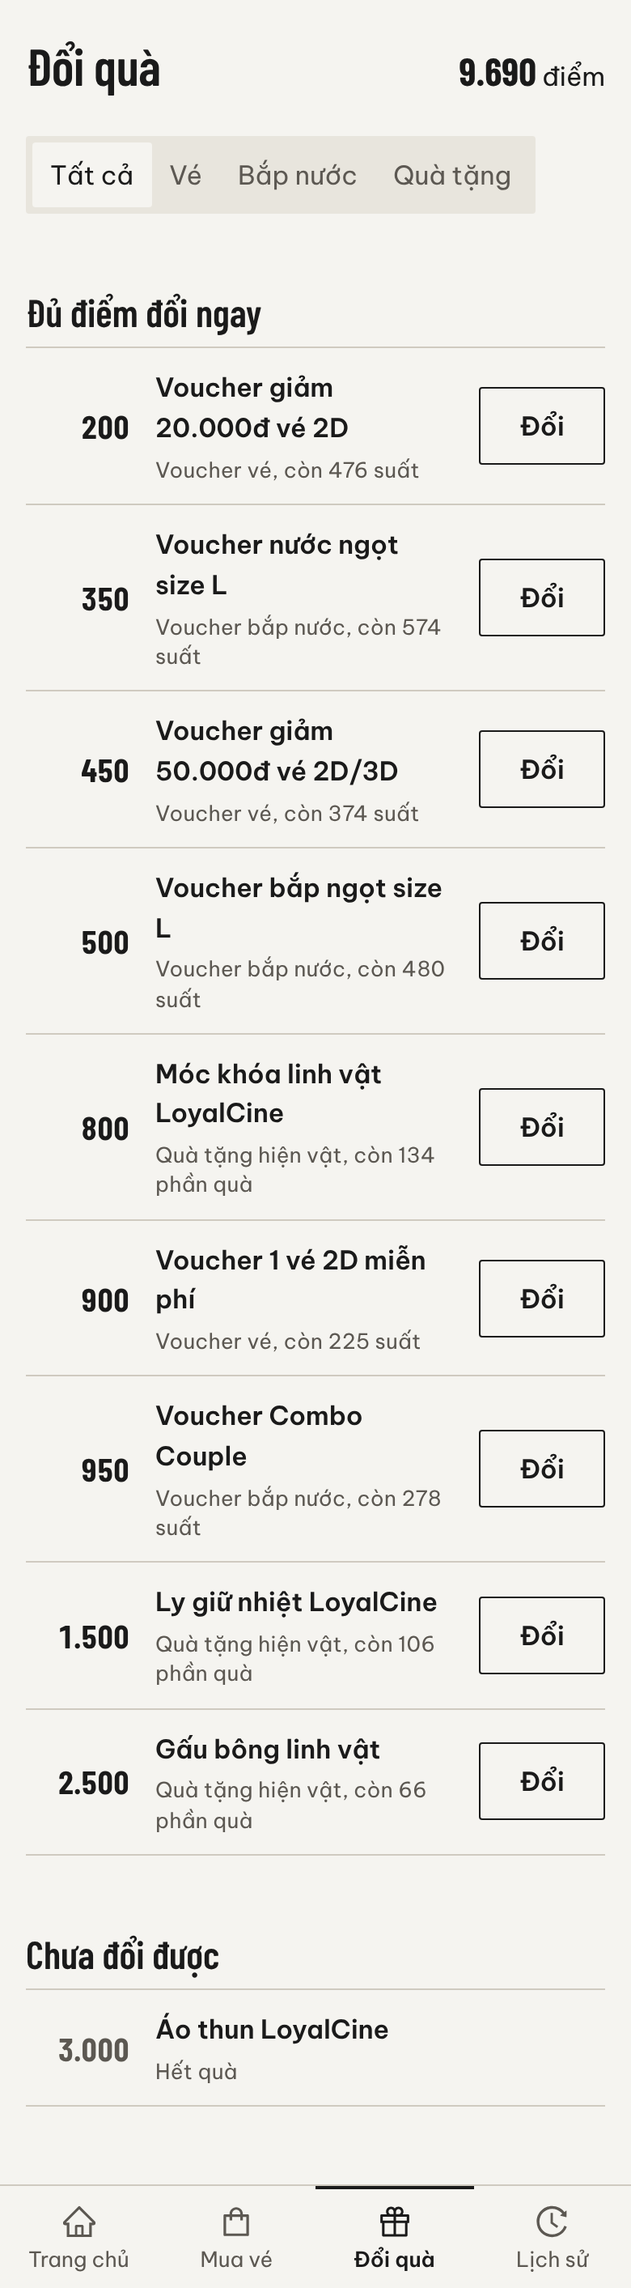
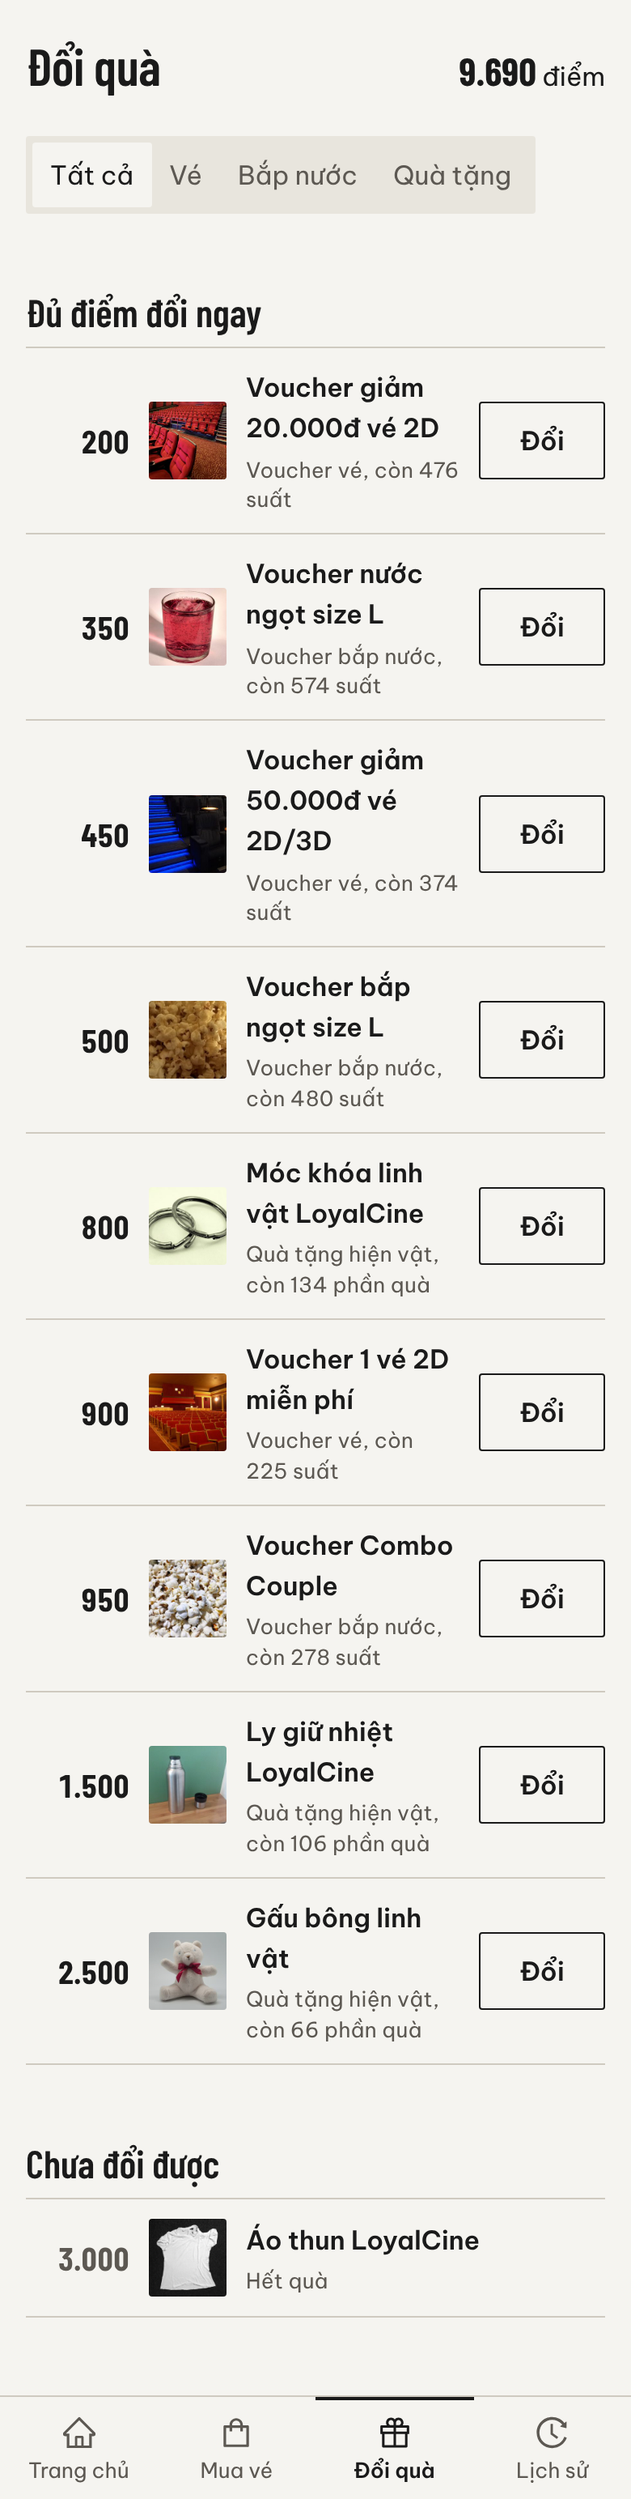
Thêm ảnh minh họa: poster phim, ảnh combo, ảnh quà, ảnh phòng chiếu
- 16 ảnh tạm lấy từ Wikimedia Commons (phạm vi công cộng, CC0, CC BY,
  CC BY-SA), đã cắt và nén (tổng khoảng 400 KB), không có người hay logo
  thương hiệu. Nằm ở frontend/src/assets/anh, khai báo ở src/data/anh.js.
- Mua vé: poster ảnh 2:3 thay poster chữ (phim chưa có ảnh vẫn dùng poster
  chữ); combo bắp nước có ảnh vuông 64px.
- Đổi quà: ảnh vuông 48px giữa số điểm và tên quà, quà chưa có ảnh để ô
  trống cùng cỡ.
- Trang đầu: ảnh phòng chiếu 3:2 và đường dẫn tới trang nguồn ảnh.
- Trang /nguon-anh và docs/07-nguon-anh.md ghi tác giả, giấy phép, nguồn
  từng ảnh theo yêu cầu của giấy phép.
- docs/06 phần 5 cập nhật quy định về ảnh; thay 4 ảnh chụp màn hình trong
  docs/hinh cho khớp giao diện mới.

Kiểm tra: lint sạch, 24 unit test đạt, build được; kịch bản demo với dữ
liệu giả đạt 24/24 (1440px) và 23/23 (390px), với backend thật đạt 23/23;
không ảnh nào bị lỗi tải.

diff --git a/frontend/src/data/anh.js b/frontend/src/data/anh.js
@@ -1,0 +1,65 @@
+// Ảnh minh họa TẠM THỜI, lấy từ Wikimedia Commons theo giấy phép tự do hoặc chỉ cần ghi nguồn.
+// Ảnh đã được cắt và thu nhỏ. Không chọn ảnh có người hay logo thương hiệu.
+// Nguồn, tác giả, giấy phép ghi ở NGUON_ANH bên dưới, hiện ở trang /nguon-anh và docs/07-nguon-anh.md.
+// Khi nhóm có ảnh thật: thay tệp trong src/assets/anh và sửa NGUON_ANH cho khớp.
+import aoThun from '../assets/anh/ao-thun.jpg'
+import bap1 from '../assets/anh/bap-1.jpg'
+import bap2 from '../assets/anh/bap-2.jpg'
+import bap3 from '../assets/anh/bap-3.jpg'
+import gauBong from '../assets/anh/gau-bong.jpg'
+import lyGiuNhiet from '../assets/anh/ly-giu-nhiet.jpg'
+import mocKhoa from '../assets/anh/moc-khoa.jpg'
+import nuocNgot from '../assets/anh/nuoc-ngot.jpg'
+import phimDemTrang from '../assets/anh/phim-dem-trang.jpg'
+import phimHanhTinh from '../assets/anh/phim-hanh-tinh.jpg'
+import phimHoiAn from '../assets/anh/phim-hoi-an.jpg'
+import phimMeoMun from '../assets/anh/phim-meo-mun.jpg'
+import rap1 from '../assets/anh/rap-1.jpg'
+import rap2 from '../assets/anh/rap-2.jpg'
+import rap3 from '../assets/anh/rap-3.jpg'
+import rap3Rong from '../assets/anh/rap-3-rong.jpg'
+
+/** Poster theo MaPhim (tỉ lệ 2:3). Phim không có ở đây thì dùng poster dạng chữ. */
+export const POSTER_PHIM = { P01: phimHanhTinh, P02: phimHoiAn, P03: phimMeoMun, P04: phimDemTrang }
+
+/** Ảnh vuông theo MaSanPham của combo bắp nước. */
+export const ANH_COMBO = { 'CB-SOLO': bap1, 'CB-COUPLE': bap2, 'CB-FAMILY': bap3 }
+
+/** Ảnh vuông theo MaPhanThuong. Quà mới thêm mà chưa có ảnh thì để ô trống. */
+export const ANH_QUA = {
+  PT001: rap1,
+  PT002: rap2,
+  PT003: rap3,
+  PT004: nuocNgot,
+  PT005: bap1,
+  PT006: bap2,
+  PT007: mocKhoa,
+  PT008: lyGiuNhiet,
+  PT009: gauBong,
+  PT010: aoThun,
+}
+
+/** Ảnh phòng chiếu ở trang đầu (tỉ lệ 3:2). */
+export const ANH_PHONG_CHIEU = rap3Rong
+
+const CC = (ma, ban) => `https://creativecommons.org/${ma === 'CC0' ? 'publicdomain/zero/1.0' : `licenses/${ma}/${ban}`}/`
+const COMMONS = (ten) => `https://commons.wikimedia.org/wiki/File:${encodeURIComponent(ten.replaceAll(' ', '_'))}`
+
+/** Nguồn từng ảnh: dùng ở đâu, tên tệp trên Commons, tác giả, giấy phép. */
+export const NGUON_ANH = [
+  { anh: phimHanhTinh, dungCho: 'Poster phim "Hành Tinh Cuối Cùng"', tenTep: 'Earthrise over Compton crater -LRO full res.jpg', tacGia: 'NASA / Goddard Space Flight Center / Arizona State University', giayPhep: 'Phạm vi công cộng', urlGiayPhep: null },
+  { anh: phimHoiAn, dungCho: 'Poster phim "Mùa Hè Ở Hội An"', tenTep: 'Lanterns in Hoi An (40480642302).jpg', tacGia: 'Mig Gilbert from Brighton', giayPhep: 'CC BY-SA 2.0', urlGiayPhep: CC('by-sa', '2.0') },
+  { anh: phimMeoMun, dungCho: 'Poster phim "Thám Tử Mèo Mun"', tenTep: 'Yellow-eyed Black Cat.jpg', tacGia: 'Mcheer372', giayPhep: 'CC BY-SA 4.0', urlGiayPhep: CC('by-sa', '4.0') },
+  { anh: phimDemTrang, dungCho: 'Poster phim "Đêm Trăng Sài Gòn"', tenTep: 'Ho Chi Minh skyline.jpg', tacGia: 'Azor84', giayPhep: 'CC0', urlGiayPhep: CC('CC0') },
+  { anh: bap1, dungCho: 'Combo Solo, voucher bắp ngọt size L', tenTep: 'Popcorn 9.jpg', tacGia: 'ViajeroExtraviado', giayPhep: 'CC0', urlGiayPhep: CC('CC0') },
+  { anh: bap2, dungCho: 'Combo Couple, voucher Combo Couple', tenTep: 'Popcorn 1.jpg', tacGia: 'Gaurav Dhwaj Khadka', giayPhep: 'CC BY-SA 4.0', urlGiayPhep: CC('by-sa', '4.0') },
+  { anh: bap3, dungCho: 'Combo Family', tenTep: 'Popcorn Confection.jpg', tacGia: 'Capvideo', giayPhep: 'CC BY 4.0', urlGiayPhep: CC('by', '4.0') },
+  { anh: rap1, dungCho: 'Voucher giảm 20.000đ vé 2D', tenTep: 'Interior of movie theater, AMC Century City, Sept. 2024.jpg', tacGia: 'Alexis Doine', giayPhep: 'CC0', urlGiayPhep: CC('CC0') },
+  { anh: rap2, dungCho: 'Voucher giảm 50.000đ vé 2D/3D', tenTep: 'Auditorium at Gilda on an afternoon in January 2025.jpg', tacGia: 'JIP', giayPhep: 'CC BY-SA 4.0', urlGiayPhep: CC('by-sa', '4.0') },
+  { anh: rap3, dungCho: 'Voucher 1 vé 2D miễn phí, ảnh phòng chiếu ở trang đầu', tenTep: 'Columbia City Cinema main hall.jpg', tacGia: 'Joe Mabel', giayPhep: 'CC BY-SA 3.0', urlGiayPhep: CC('by-sa', '3.0') },
+  { anh: nuocNgot, dungCho: 'Voucher nước ngọt size L', tenTep: 'Raspberryade.jpg', tacGia: 'Ubcule', giayPhep: 'CC BY-SA 3.0', urlGiayPhep: CC('by-sa', '3.0') },
+  { anh: mocKhoa, dungCho: 'Móc khóa linh vật LoyalCine', tenTep: 'Keyrings (ubt).JPG', tacGia: 'Tomasz Sienicki', giayPhep: 'CC BY 3.0', urlGiayPhep: CC('by', '3.0') },
+  { anh: lyGiuNhiet, dungCho: 'Ly giữ nhiệt LoyalCine', tenTep: 'Thermos flask with hot water.jpg', tacGia: 'Robert Orzanna', giayPhep: 'CC BY-SA 4.0', urlGiayPhep: CC('by-sa', '4.0') },
+  { anh: gauBong, dungCho: 'Gấu bông linh vật', tenTep: 'Handmade teddy bear.jpg', tacGia: 'Clément Bucco-Lechat', giayPhep: 'CC BY-SA 3.0', urlGiayPhep: CC('by-sa', '3.0') },
+  { anh: aoThun, dungCho: 'Áo thun LoyalCine', tenTep: 'Worn T-shirt white.png', tacGia: 'Taylor_49', giayPhep: 'CC BY-SA 4.0', urlGiayPhep: CC('by-sa', '4.0') },
+].map((a) => ({ ...a, trang: COMMONS(a.tenTep) }))

diff --git a/frontend/src/index.css b/frontend/src/index.css
@@ -636,6 +636,24 @@ a.ten-thuong-hieu {
   line-height: 1;
   overflow-wrap: anywhere;
 }
+/* Poster ảnh (quy chuẩn giao diện, phần 5): tỉ lệ 2:3, bo 2px, nền phụ trong lúc ảnh đang tải */
+.poster {
+  display: block;
+  width: 88px;
+  height: 132px;
+  object-fit: cover;
+  border-radius: var(--bo-nut);
+  background: var(--nen-phu);
+}
+/* Ảnh vuông cho combo và quà; ô trống cùng cỡ khi chưa có ảnh */
+.anh-vuong {
+  display: block;
+  width: var(--co-anh, 48px);
+  height: var(--co-anh, 48px);
+  object-fit: cover;
+  border-radius: var(--bo-nut);
+  background: var(--nen-phu);
+}
 .phim__than {
   display: flex;
   flex-direction: column;
@@ -782,7 +800,7 @@ a.ten-thuong-hieu {
    ========================================================================== */
 .qua {
   display: grid;
-  grid-template-columns: 64px minmax(0, 1fr) auto;
+  grid-template-columns: 64px 48px minmax(0, 1fr) auto;
   gap: 16px;
   align-items: center;
   min-height: 64px;
@@ -808,6 +826,15 @@ a.ten-thuong-hieu {
 }
 .qua--thieu .qua__diem {
   color: var(--chu-phu);
+}
+.qua--combo {
+  grid-template-columns: 64px minmax(0, 1fr) auto;
+  --co-anh: 64px;
+}
+@media (max-width: 767px) {
+  .qua {
+    gap: 12px;
+  }
 }
 
 /* Voucher đã đổi: thân vé, đường răng cưa, cuống có mã */
@@ -867,6 +894,51 @@ a.ten-thuong-hieu {
   font-weight: 600;
   font-size: var(--h2);
   line-height: 1.1;
+}
+.trang-dau__anh {
+  display: block;
+  width: 100%;
+  height: auto;
+  aspect-ratio: 3 / 2;
+  object-fit: cover;
+  border-radius: var(--bo-nut);
+  background: var(--nen-phu);
+  margin-bottom: 16px;
+}
+.trang-dau__nguon {
+  margin-top: 16px;
+  color: var(--chu-phu);
+}
+
+/* Trang nguồn ảnh */
+.trang-nguon {
+  display: flex;
+  flex-direction: column;
+  gap: 32px;
+  padding: 48px 32px 96px;
+}
+.trang-nguon p {
+  max-width: 65ch;
+}
+.dong-nguon {
+  display: grid;
+  grid-template-columns: 48px minmax(0, 1fr);
+  gap: 16px;
+  align-items: center;
+  padding: 12px 0;
+  border-bottom: 1px solid var(--vien);
+}
+.ds-hang > .dong-nguon:first-child {
+  border-top: 1px solid var(--vien);
+}
+.dong-nguon small {
+  color: var(--chu-phu);
+  overflow-wrap: anywhere;
+}
+@media (max-width: 767px) {
+  .trang-nguon {
+    padding: 32px 16px 64px;
+  }
 }
 @media (max-width: 760px) {
   .trang-dau {

diff --git a/frontend/src/pages/customer/MuaVe.jsx b/frontend/src/pages/customer/MuaVe.jsx
@@ -6,6 +6,8 @@ import { useNavigate, useSearchParams } from 'react-router-dom'
 import { taoGiaoDich } from '../../api/giaoDich.js'
 import { SO_TIEN_MOI_DIEM } from '../../config.js'
 import { useKhachHang } from '../../context/khachHangContext.js'
+import { AnhVuong } from '../../components/AnhVuong.jsx'
+import { ANH_COMBO, POSTER_PHIM } from '../../data/anh.js'
 import { COMBO, PHIM, taoDongCombo, taoDongVe } from '../../data/catalog.js'
 import { formatDiem, formatVND } from '../../utils/format.js'
 
@@ -47,9 +49,13 @@ function HangPhim({ phim, ngay, gioHang, datDong }) {
 
   return (
     <article className="phim" data-testid={`movie-${phim.MaPhim}`}>
-      <div className="poster-chu" aria-hidden>
-        {phim.TenPhim}
-      </div>
+      {POSTER_PHIM[phim.MaPhim] ? (
+        <img className="poster" src={POSTER_PHIM[phim.MaPhim]} alt="" width="88" height="132" loading="lazy" decoding="async" />
+      ) : (
+        <div className="poster-chu" aria-hidden>
+          {phim.TenPhim}
+        </div>
+      )}
       <div className="phim__than">
         <h2 className="co-h3">{phim.TenPhim}</h2>
         <small>
@@ -173,7 +179,8 @@ export default function MuaVe() {
         ) : (
           <ul className="ds-hang">
             {COMBO.map((c) => (
-              <li key={c.MaSanPham} className="qua" data-testid={`combo-${c.MaSanPham}`} style={{ gridTemplateColumns: '1fr auto' }}>
+              <li key={c.MaSanPham} className="qua qua--combo" data-testid={`combo-${c.MaSanPham}`}>
+                <AnhVuong src={ANH_COMBO[c.MaSanPham]} />
                 <div className="cap">
                   <h2 className="co-h3">{c.TenSanPham}</h2>
                   <small>{c.MoTa}</small>

diff --git a/frontend/src/pages/NguonAnh.jsx b/frontend/src/pages/NguonAnh.jsx
@@ -1,0 +1,32 @@
+import { Link } from 'react-router-dom'
+import { NGUON_ANH } from '../data/anh.js'
+
+/** Nguồn, tác giả và giấy phép của các ảnh minh họa (ghi nguồn theo yêu cầu của giấy phép CC BY, CC BY-SA). */
+export default function NguonAnh() {
+  return (
+    <main className="trang-nguon">
+      <div className="cap">
+        <Link to="/">Về trang đầu</Link>
+        <h1>Nguồn ảnh minh họa</h1>
+        <p>
+          Ảnh trong app là ảnh minh họa tạm thời, lấy từ Wikimedia Commons và dùng theo giấy phép ghi ở từng dòng. Ảnh đã được
+          cắt và thu nhỏ. Khi nhóm có poster phim hoặc ảnh rạp thật được phép dùng, các ảnh này sẽ được thay.
+        </p>
+      </div>
+      <ul className="ds-hang">
+        {NGUON_ANH.map((a) => (
+          <li key={a.tenTep} className="dong-nguon">
+            <img className="anh-vuong" src={a.anh} alt="" loading="lazy" decoding="async" />
+            <span className="cap">
+              <b>{a.dungCho}</b>
+              <small>
+                Ảnh <a href={a.trang}>{a.tenTep}</a>, tác giả {a.tacGia}, giấy phép{' '}
+                {a.urlGiayPhep ? <a href={a.urlGiayPhep}>{a.giayPhep}</a> : a.giayPhep}
+              </small>
+            </span>
+          </li>
+        ))}
+      </ul>
+    </main>
+  )
+}

diff --git a/frontend/src/pages/Landing.jsx b/frontend/src/pages/Landing.jsx
@@ -2,17 +2,29 @@ import { RightOutlined } from '@ant-design/icons'
 import { Link } from 'react-router-dom'
 import { MockControls } from '../components/MockControls.jsx'
 import { APP_NAME } from '../config.js'
+import { ANH_PHONG_CHIEU } from '../data/anh.js'
 
-/** Trang đầu: tên LoyalCine bên trái, hai lựa chọn bên phải. */
+/** Trang đầu: ảnh phòng chiếu và tên LoyalCine bên trái, hai lựa chọn bên phải. */
 export default function Landing() {
   return (
     <main className="trang-dau">
       <div className="cap">
+        <img
+          className="trang-dau__anh"
+          src={ANH_PHONG_CHIEU}
+          alt="Phòng chiếu với các hàng ghế đỏ"
+          width="1200"
+          height="800"
+          decoding="async"
+        />
         <h1>{APP_NAME}</h1>
         <p>App thành viên rạp phim, đồ án môn NoSQL (MongoDB, Node.js/Express, React).</p>
         <div style={{ marginTop: 24 }}>
           <MockControls />
         </div>
+        <small className="trang-dau__nguon">
+          Ảnh minh họa lấy từ Wikimedia Commons. <Link to="/nguon-anh">Xem nguồn và giấy phép ảnh</Link>
+        </small>
       </div>
       <nav className="trang-dau__lua-chon" aria-label="Chọn ứng dụng">
         <Link to="/app" className="hang-viec">

diff --git a/frontend/src/pages/customer/DoiThuong.jsx b/frontend/src/pages/customer/DoiThuong.jsx
@@ -5,8 +5,10 @@ import { useNavigate } from 'react-router-dom'
 import { doiQua } from '../../api/doiThuong.js'
 import { layDsPhanThuong } from '../../api/phanThuong.js'
 import { ErrorState } from '../../components/ErrorState.jsx'
+import { AnhVuong } from '../../components/AnhVuong.jsx'
 import { VeVoucher } from '../../components/VeVoucher.jsx'
 import { useKhachHang } from '../../context/khachHangContext.js'
+import { ANH_QUA } from '../../data/anh.js'
 import { useApi } from '../../hooks/useApi.js'
 import { formatDiem } from '../../utils/format.js'
 import { NHAN_LOAI_PHAN_THUONG } from '../../utils/nhan.js'
@@ -28,6 +30,7 @@ function HangQua({ qua, diemHienTai, onDoi }) {
   return (
     <li className={`qua${doiDuoc ? '' : ' qua--thieu'}`} data-testid={`reward-${qua.MaPhanThuong}`}>
       <span className="qua__diem">{formatDiem(qua.DiemCanDoi)}</span>
+      <AnhVuong src={ANH_QUA[qua.MaPhanThuong]} />
       <span className="qua__chu">
         <b>{qua.TenPhanThuong}</b>
         <small>

diff --git a/frontend/src/App.jsx b/frontend/src/App.jsx
@@ -21,6 +21,7 @@ const LichSu = lazy(() => import('./pages/customer/LichSu.jsx'))
 const MuaVe = lazy(() => import('./pages/customer/MuaVe.jsx'))
 const ThanhToanMoMo = lazy(() => import('./pages/customer/ThanhToanMoMo.jsx'))
 const TrangChu = lazy(() => import('./pages/customer/TrangChu.jsx'))
+const NguonAnh = lazy(() => import('./pages/NguonAnh.jsx'))
 
 const DangTai = (
   <div style={{ minHeight: 240, display: 'grid', placeItems: 'center' }}>
@@ -37,6 +38,7 @@ export default function App() {
           <Suspense fallback={DangTai}>
             <Routes>
             <Route path="/" element={<Landing />} />
+            <Route path="/nguon-anh" element={<NguonAnh />} />
 
             {/* Customer App (giao diện điện thoại) */}
             <Route

diff --git a/frontend/src/components/AnhVuong.jsx b/frontend/src/components/AnhVuong.jsx
@@ -1,0 +1,9 @@
+/**
+ * Ảnh vuông nhỏ cho combo bắp nước và quà đổi điểm.
+ * Chưa có ảnh thì để một ô trống cùng cỡ, để các hàng vẫn thẳng cột.
+ * Ảnh chỉ minh họa (tên món đã ghi ngay bên cạnh) nên alt để trống.
+ */
+export function AnhVuong({ src }) {
+  if (!src) return <span className="anh-vuong" aria-hidden />
+  return <img className="anh-vuong" src={src} alt="" loading="lazy" decoding="async" />
+}

diff --git a/docs/07-nguon-anh.md b/docs/07-nguon-anh.md
@@ -1,0 +1,27 @@
+# Nguồn ảnh minh họa
+
+Ảnh trong app là ảnh minh họa **tạm thời**, lấy từ Wikimedia Commons. Mỗi ảnh dùng theo giấy phép ghi trong bảng:
+- Phạm vi công cộng và CC0: dùng tự do.
+- CC BY và CC BY-SA: phải ghi tác giả, giấy phép và nguồn. App ghi ở trang `/nguon-anh`, có đường dẫn từ trang đầu. Ảnh cắt từ ảnh CC BY-SA vẫn theo giấy phép CC BY-SA của ảnh gốc.
+
+Ảnh đã được cắt và thu nhỏ. Khi chọn, nhóm bỏ qua ảnh có người và ảnh có logo thương hiệu.
+
+Tệp ảnh nằm ở `frontend/src/assets/anh/`; danh sách dùng trong code ở `frontend/src/data/anh.js` (`POSTER_PHIM`, `ANH_COMBO`, `ANH_QUA`, `NGUON_ANH`). Khi nhóm có poster phim hoặc ảnh rạp thật được phép dùng: thay tệp cùng tên, rồi sửa dòng tương ứng trong `NGUON_ANH` và bảng dưới đây. Phim hay quà chưa có ảnh thì app tự dùng poster dạng chữ hoặc ô trống.
+
+| Tệp trong app | Dùng cho | Ảnh gốc trên Wikimedia Commons | Tác giả | Giấy phép |
+|---|---|---|---|---|
+| `phim-hanh-tinh.jpg` | Poster phim "Hành Tinh Cuối Cùng" | [Earthrise over Compton crater -LRO full res.jpg](https://commons.wikimedia.org/wiki/File:Earthrise_over_Compton_crater_-LRO_full_res.jpg) | NASA / Goddard Space Flight Center / Arizona State University | Phạm vi công cộng |
+| `phim-hoi-an.jpg` | Poster phim "Mùa Hè Ở Hội An" | [Lanterns in Hoi An (40480642302).jpg](https://commons.wikimedia.org/wiki/File:Lanterns_in_Hoi_An_(40480642302).jpg) | Mig Gilbert from Brighton | [CC BY-SA 2.0](https://creativecommons.org/licenses/by-sa/2.0/) |
+| `phim-meo-mun.jpg` | Poster phim "Thám Tử Mèo Mun" | [Yellow-eyed Black Cat.jpg](https://commons.wikimedia.org/wiki/File:Yellow-eyed_Black_Cat.jpg) | Mcheer372 | [CC BY-SA 4.0](https://creativecommons.org/licenses/by-sa/4.0/) |
+| `phim-dem-trang.jpg` | Poster phim "Đêm Trăng Sài Gòn" | [Ho Chi Minh skyline.jpg](https://commons.wikimedia.org/wiki/File:Ho_Chi_Minh_skyline.jpg) | Azor84 | [CC0](https://creativecommons.org/publicdomain/zero/1.0/) |
+| `bap-1.jpg` | Combo Solo, voucher bắp ngọt size L | [Popcorn 9.jpg](https://commons.wikimedia.org/wiki/File:Popcorn_9.jpg) | ViajeroExtraviado | [CC0](https://creativecommons.org/publicdomain/zero/1.0/) |
+| `bap-2.jpg` | Combo Couple, voucher Combo Couple | [Popcorn 1.jpg](https://commons.wikimedia.org/wiki/File:Popcorn_1.jpg) | Gaurav Dhwaj Khadka | [CC BY-SA 4.0](https://creativecommons.org/licenses/by-sa/4.0/) |
+| `bap-3.jpg` | Combo Family | [Popcorn Confection.jpg](https://commons.wikimedia.org/wiki/File:Popcorn_Confection.jpg) | Capvideo | [CC BY 4.0](https://creativecommons.org/licenses/by/4.0/) |
+| `rap-1.jpg` | Voucher giảm 20.000đ vé 2D | [Interior of movie theater, AMC Century City, Sept. 2024.jpg](https://commons.wikimedia.org/wiki/File:Interior_of_movie_theater,_AMC_Century_City,_Sept._2024.jpg) | Alexis Doine | [CC0](https://creativecommons.org/publicdomain/zero/1.0/) |
+| `rap-2.jpg` | Voucher giảm 50.000đ vé 2D/3D | [Auditorium at Gilda on an afternoon in January 2025.jpg](https://commons.wikimedia.org/wiki/File:Auditorium_at_Gilda_on_an_afternoon_in_January_2025.jpg) | JIP | [CC BY-SA 4.0](https://creativecommons.org/licenses/by-sa/4.0/) |
+| `rap-3.jpg, rap-3-rong.jpg` | Voucher 1 vé 2D miễn phí, ảnh phòng chiếu ở trang đầu | [Columbia City Cinema main hall.jpg](https://commons.wikimedia.org/wiki/File:Columbia_City_Cinema_main_hall.jpg) | Joe Mabel | [CC BY-SA 3.0](https://creativecommons.org/licenses/by-sa/3.0/) |
+| `nuoc-ngot.jpg` | Voucher nước ngọt size L | [Raspberryade.jpg](https://commons.wikimedia.org/wiki/File:Raspberryade.jpg) | Ubcule | [CC BY-SA 3.0](https://creativecommons.org/licenses/by-sa/3.0/) |
+| `moc-khoa.jpg` | Móc khóa linh vật LoyalCine | [Keyrings (ubt).JPG](https://commons.wikimedia.org/wiki/File:Keyrings_(ubt).JPG) | Tomasz Sienicki | [CC BY 3.0](https://creativecommons.org/licenses/by/3.0/) |
+| `ly-giu-nhiet.jpg` | Ly giữ nhiệt LoyalCine | [Thermos flask with hot water.jpg](https://commons.wikimedia.org/wiki/File:Thermos_flask_with_hot_water.jpg) | Robert Orzanna | [CC BY-SA 4.0](https://creativecommons.org/licenses/by-sa/4.0/) |
+| `gau-bong.jpg` | Gấu bông linh vật | [Handmade teddy bear.jpg](https://commons.wikimedia.org/wiki/File:Handmade_teddy_bear.jpg) | Clément Bucco-Lechat | [CC BY-SA 3.0](https://creativecommons.org/licenses/by-sa/3.0/) |
+| `ao-thun.jpg` | Áo thun LoyalCine | [Worn T-shirt white.png](https://commons.wikimedia.org/wiki/File:Worn_T-shirt_white.png) | Taylor_49 | [CC BY-SA 4.0](https://creativecommons.org/licenses/by-sa/4.0/) |

diff --git a/docs/06-quy-chuan-giao-dien.md b/docs/06-quy-chuan-giao-dien.md
@@ -126,7 +126,7 @@ App khách hàng mở đầu bằng chính tấm vé thành viên (tên, hạng,
 - **Nút phụ:** nền trong suốt, viền 1px Chữ chính #1A1A1A, chữ Chữ chính, cao 48px, bo 2px; hover nền Nền phụ #E8E5DD. Nút nhỏ trong bảng của trang quản trị cao 32px.
 - **Chữ trên nút và link:** nói rõ bấm vào thì chuyện gì xảy ra, ví dụ "Thanh toán 190.000đ bằng MoMo", "Đổi voucher với 450 điểm". Link màu nhấn, có gạch chân.
 - **Thẻ (card):** dùng cho những thứ ngoài đời là một tấm vé: thẻ thành viên, vé đã mua, voucher và từng món quà. Mỗi "vé" có Nền phụ hoặc viền 1px, bo 8px, một đường răng cưa nét đứt ngăn phần cuống. Danh sách (lịch sử điểm, giao dịch, bảng quản trị) là các hàng, không bọc từng hàng trong thẻ.
-- **Ảnh:** chưa có ảnh thật. Poster phim tạm dùng poster dạng chữ (tên phim in Barlow Condensed trên Nền phụ, tỉ lệ 2:3, bo 2px), không dùng emoji. [CẦN NỘI DUNG: poster phim hoặc ảnh rạp thật được phép dùng, nếu nhóm có]
+- **Ảnh:** chưa có ảnh thật của nhóm. Đang dùng ảnh minh họa tạm từ Wikimedia Commons (giấy phép tự do hoặc ghi nguồn, không có người, không có logo thương hiệu): poster 4 phim (tỉ lệ 2:3, bo 2px), ảnh vuông 64px cho combo và 48px cho quà, một ảnh phòng chiếu tỉ lệ 3:2 ở trang đầu. Nguồn và giấy phép ghi ở trang `/nguon-anh` và `docs/07-nguon-anh.md`. Phim chưa có ảnh thì dùng poster dạng chữ (tên phim in Barlow Condensed trên Nền phụ). Không dùng emoji. [CẦN NỘI DUNG: poster phim hoặc ảnh rạp thật được phép dùng, nếu nhóm có]
 - **Icon:** bộ @ant-design/icons kiểu Outlined (đã có sẵn trong project, không cài thêm), nét mảnh khoảng 1px ở cỡ 16px, cùng màu với chữ đi kèm. Không đặt icon trong vòng tròn màu nhạt, không dùng emoji thay icon.
 - **Chuyển động:** không có hiệu ứng khi cuộn; nút đổi màu khi rê chuột 150ms; hộp thoại mở và đóng 200ms; thanh tiến độ lên hạng chạy 400ms khi điểm thay đổi; tắt hết khi người dùng bật chế độ giảm chuyển động (prefers-reduced-motion).
 

diff --git a/README.md b/README.md
@@ -21,6 +21,7 @@ Frontend **chạy được ngay bằng dữ liệu giả (mock)**, không cần 
 | `docs/04-kich-ban-demo.md` | Kịch bản demo vòng khép kín, lệnh IntelliShell, bảng so sánh App / IntelliShell / Visual Query Builder |
 | `docs/05-bao-cao-phan-cong-yen-linh.md` | Báo cáo phần backend và logic nghiệp vụ của Yến Linh |
 | `docs/06-quy-chuan-giao-dien.md` | Quy chuẩn thiết kế giao diện: màu, chữ, khoảng cách, thành phần, các kiểu cần tránh |
+| `docs/07-nguon-anh.md` | Nguồn và giấy phép của ảnh minh họa (ảnh tạm từ Wikimedia Commons, thay được bằng ảnh thật của nhóm) |
 | `docs/hinh/` | Ảnh chụp màn hình (dữ liệu giả) và sơ đồ |
 | `docs/so-do/` | Mã nguồn sơ đồ Mermaid (`.mmd`) để sửa lại khi cần |
 
